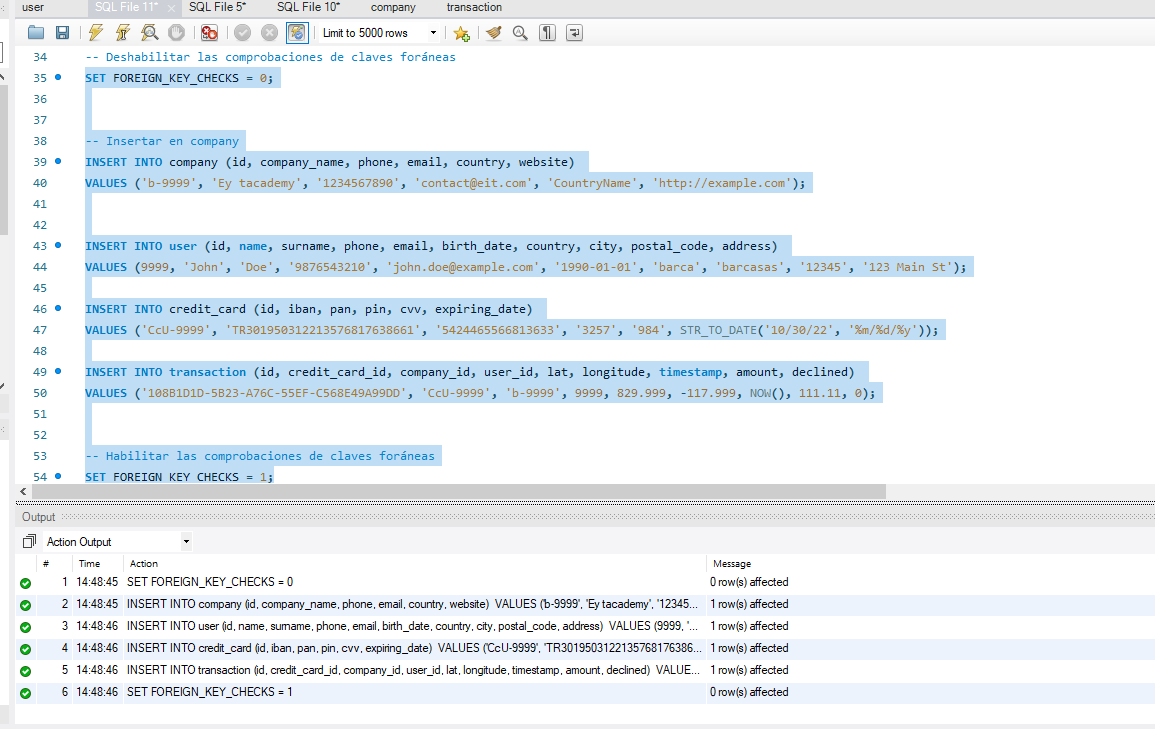
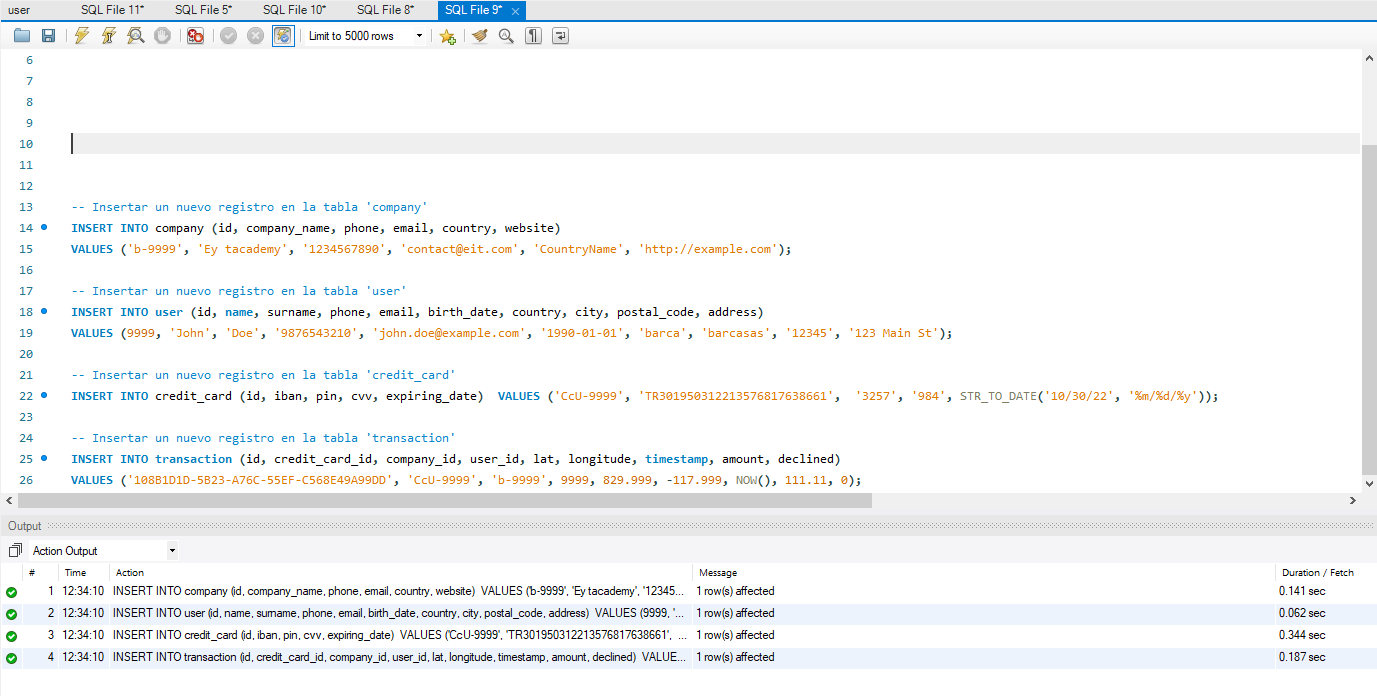
miercoles05

diff --git a/sprint3/sprint3.md b/sprint3/sprint3.md
@@ -130,11 +130,10 @@ WHERE id = 'CcU-2938';
 ![Mostrar ID CcU-2938](https://github.com/ciberzerone/it_Academy_Data_Scientist/blob/main/sprint3/imagen/eje03_insertar01.PNG)
 
 
-### Sql de Insert de los datos en la tabla 'transaction' pero a la vez debe ingresaarse datos en  tablas:  'company' 'user' 'credit_card'.
+### Sql de Insert de los datos en la tabla 'transaction' pero a la vez debe ingresarse datos en  tablas:  'company' 'user' 'credit_card'.
 
 ```sql
--- Deshabilitar las comprobaciones de claves foráneas temporalmente
-SET FOREIGN_KEY_CHECKS = 0;
+-- Considerando que tambien tenemos los datos de las 'company' 'user' 'credit_card' procedemos a ingresar los datos
 
 -- Insertar un nuevo registro en la tabla 'company'
 INSERT INTO company (id, company_name, phone, email, country, website) 
@@ -152,9 +151,6 @@ VALUES ('CcU-9999', 'TR301950312213576817638661', '5424465566813633', '3257', '9
 INSERT INTO transaction (id, credit_card_id, company_id, user_id, lat, longitude, timestamp, amount, declined) 
 VALUES ('108B1D1D-5B23-A76C-55EF-C568E49A99DD', 'CcU-9999', 'b-9999', 9999, 829.999, -117.999, NOW(), 111.11, 0);
 
--- Habilitar las comprobaciones de claves foráneas
-SET FOREIGN_KEY_CHECKS = 1;
-
 ```
 
 
@@ -162,7 +158,7 @@ SET FOREIGN_KEY_CHECKS = 1;
 ![Mostrar ID CcU-2938](https://github.com/ciberzerone/it_Academy_Data_Scientist/blob/main/sprint3/imagen/eje03_insertar02.PNG)
 
 ### Explicar codigo:
-- **SET FOREIGN_KEY_CHECKS = 0;:** Para evitar el Error Code: 1452. Cannot add or update a child row: a foreign key constraint fails (`transactions`.`transaction`, CONSTRAINT `transaction_ibfk_1` FOREIGN KEY (`company_id`) REFERENCES `company` (`id`))*/ se debe usar SET FOREIGN_KEY_CHECKS = 0; que evita evitar errores de restricciones de claves foráneas durante las inserciones.
+- **INSERT INTO** en las tablas 'transaction', 'company', 'user', 'credit_card'  para evitar Código de error: 1452 que ocurre por solo ingresar los datos en solo en  la tabla 'transaction'.
 
 
 
